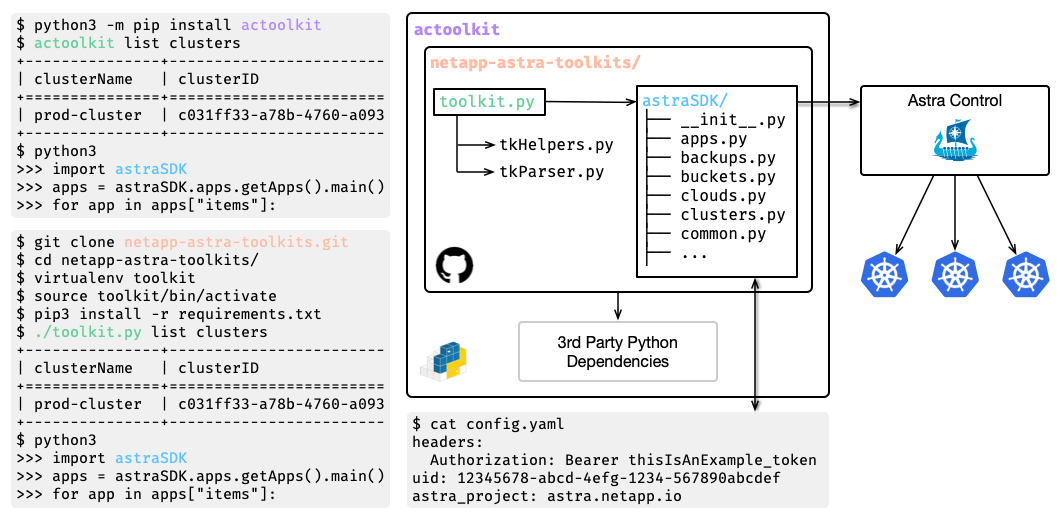
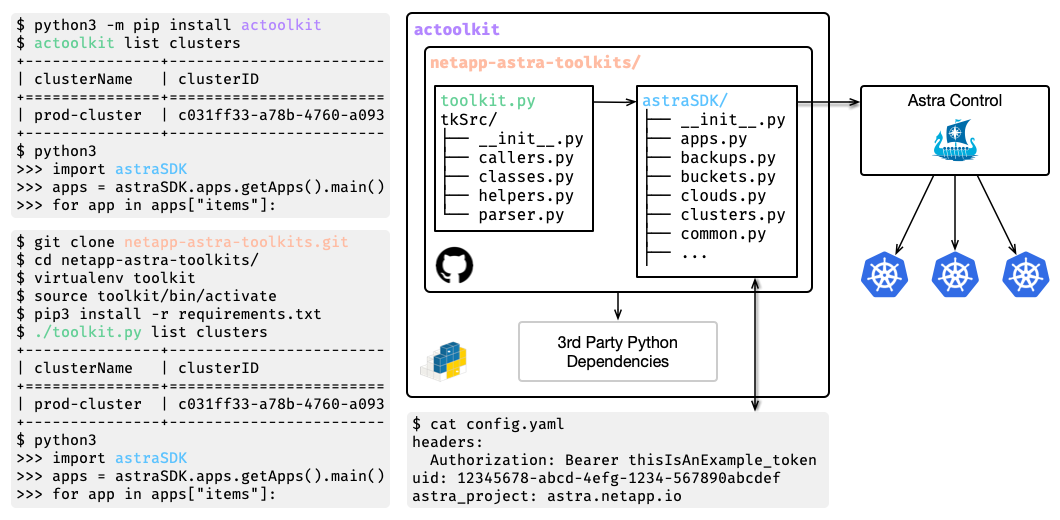
updated filename, image, Dockerfile file cleanup

Changed region(s): [[0.4047, 0.1538, 0.5915, 0.4615]]

diff --git a/toolkit.py b/toolkit.py
@@ -27,8 +27,8 @@ def main():
     # parsing the options. By then it's too late to decide which functions to run to
     # populate the various choices the differing options for each subcommand needs. So
     # we just go around argparse's back and inspect sys.argv directly.
-    acl = tkSrc.structures.ArgparseChoicesLists()
-    ard = tkSrc.structures.AstraResourceDicts()
+    acl = tkSrc.classes.ArgparseChoicesLists()
+    ard = tkSrc.classes.AstraResourceDicts()
     plaidMode = False
 
     if len(sys.argv) > 1:

diff --git a/tkSrc/classes.py b/tkSrc/classes.py
@@ -61,6 +61,7 @@ class AstraResourceDicts:
             return True
 
     def buildList(self, name, key, fKey=None, fVal=None):
+        """Generates a list for use in argparse choices"""
         try:
             # return a list of resource values based on 'key'
             if not fKey or not fVal:

diff --git a/tkSrc/__init__.py b/tkSrc/__init__.py
@@ -1,4 +1,4 @@
 from . import callers
+from . import classes
 from . import helpers
 from . import parser
-from . import structures
